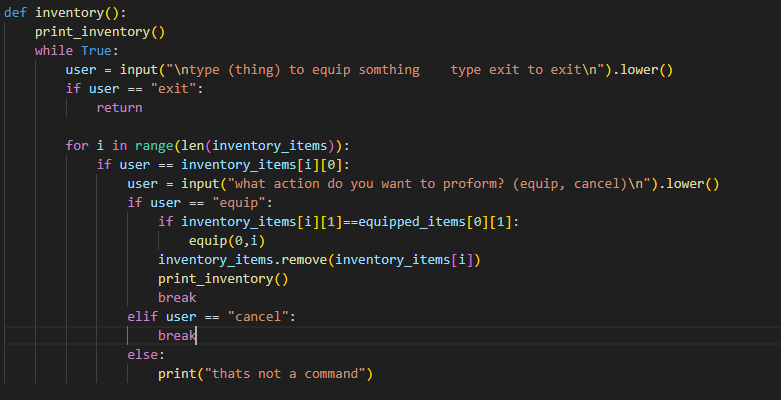
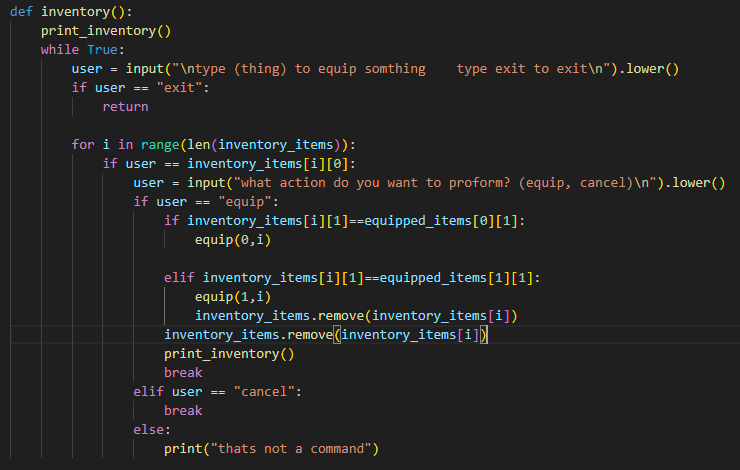
finished combat and inventory

Changed region(s): [[0.0, 0.0, 0.9946, 0.99]]

diff --git a/development2.html b/development2.html
@@ -15,36 +15,45 @@
       </div>
       <hr>
     <h1>Development 1</h1>
-    <h6>Task</h6>
-    <h2>im making the inventory system with stats and items. it can be used to equip items. it has two occumpaning functions, one to equip an item, and one to print the inventory</h2> 
+    <h6><br><br>Task</h6>
+    <p>im making the inventory system with stats and items. it can be used to equip items. it has two occumpaning functions, one to equip an item, and one to print the inventory</p>
+    <img src="inv1.PNG" alt="placeholder"><br>
+    <img src="inv2.PNG" alt="placeholder"><br>
+    <img src="inv3.PNG" alt="placeholder"><br>
     <h6>devolopment</h6>
     <p>first i planned out what i was acctuly gonna doand how i was gonna do it.<br> then i created a loop that prints the inventory<br> then i made a input so that the user could equip items<br>i then added stats because i knew i would need them when i add combat</p>
-    <img src="inv1.PNG" alt="placeholder">
+    
     <h6>Testing</h6>
     <p>i need to use insert instead of append so it doesnt change the index value, because it is causing errors. </p>
     <h6>Feedback</h6>
     <p>charlie told me that i should make it easier to read because it is not obvios. i will probably do this by changing the colours. he also said that i should split up the stats more.</p>
     <h6>improvements</h6>
-    <p></p>
+    <p>i made the stats in italics and the item in bold so that there is more of a visual differnce. i also replaced the insert() with append().</p>
+    <img src="inv4.png" alt="placeholder"><br>
     <h6>Testing</h6>
     <p>if the user cancels on the options prompt then it deletes the item from inventory.</p>
     <h6>improvements</h6>
-    <p>i made it so that if you cancel it does not remove from inventory</p>
+    <p>i made it so that if you cancel it does not remove from inventory<br><br></p>
+    <img src="inv5.png" alt="placeholder"><br>
 
-    <h6>Task</h6>
-    <h2>i made a combat system so that you can fight an enemy and do damade toit, and it can do damage to you.</h2> 
-    <h6>development</h6>
+    <h6><br><br>Task</h6>
+    <p>i made a combat system so that you can fight an enemy and do damage to it, and it can do damage to you.</p> 
+    <img src="combat1.png" alt="placeholder"><br>
+    <h6>development</h6> 
     <p>i planned out how to do it<br>then i made a list of enemy types with stats<br> then i used the inventory function for if the user inputed items.<br>i then made the fight input do damage based on the stats of the wepons</p>
     <h6>Testing</h6>
     <p>the combat system had no real problems</p>
     <h6>Feedback</h6>
-    <p>charlie and oisin said that there aresome spelling errors and the menus are hard to read</p>
+    <p>charlie and oisin said that there are some spelling errors and the menus are hard to read</p>
     <h6>improvements</h6>
-    <p></p>
+    <p>i fixed the spelling errors</p>
+    <img src="combat2.png" alt="placeholder"><br>
+    <h6>testing</h6>
+    <p>it works as planned<br><br></p>
 
-    <h6>Task</h6>
+    <h6><br><br>Task</h6>
     <p>make a loop to print story elements</p> 
-    <h6>there was not much work to do with this one, it was just a simple for loop<br>i made it so that the player can go on differnt paths depending on the options<br></h6>
+    <h6>there was not much work to do with this one, it was just a simple for loop<br>i made it so that the player can go on differnt paths depending on the options</h6>
     <h6>Testing</h6>
     <p>it worked well first try</p>
     <h6>Feedback</h6>
@@ -52,9 +61,9 @@
     <h6>improvements</h6>
     <p>i added short options</p>
     <h6>testing</h6>
-    <p>it worked</p> 
+    <p>it worked<br><br></p> 
 
-    <h6>Task</h6>
+    <h6><br><br>Task</h6>
     <h2>idle animation</h2> 
     <h6>Testing</h6>
     <p>the arms moved weird</p>

diff --git a/style.css b/style.css
@@ -53,7 +53,7 @@ body {
     background-image: url('background.png');
     background-size: cover;
     height: 100%;}
-    img{scale: 400%; float: right;}
+    img{scale: 75%;}
     
     /* Add a black background color to the top navigation */
 .topnav {

diff --git a/index.html b/index.html
@@ -18,7 +18,6 @@
     <h1>Roberts <br> 
         Portfolio</h1>
         
-        <img src="placeholder.png" alt="placeholder">
     <h2>About me:</h2>
     <p>text</p>
     
